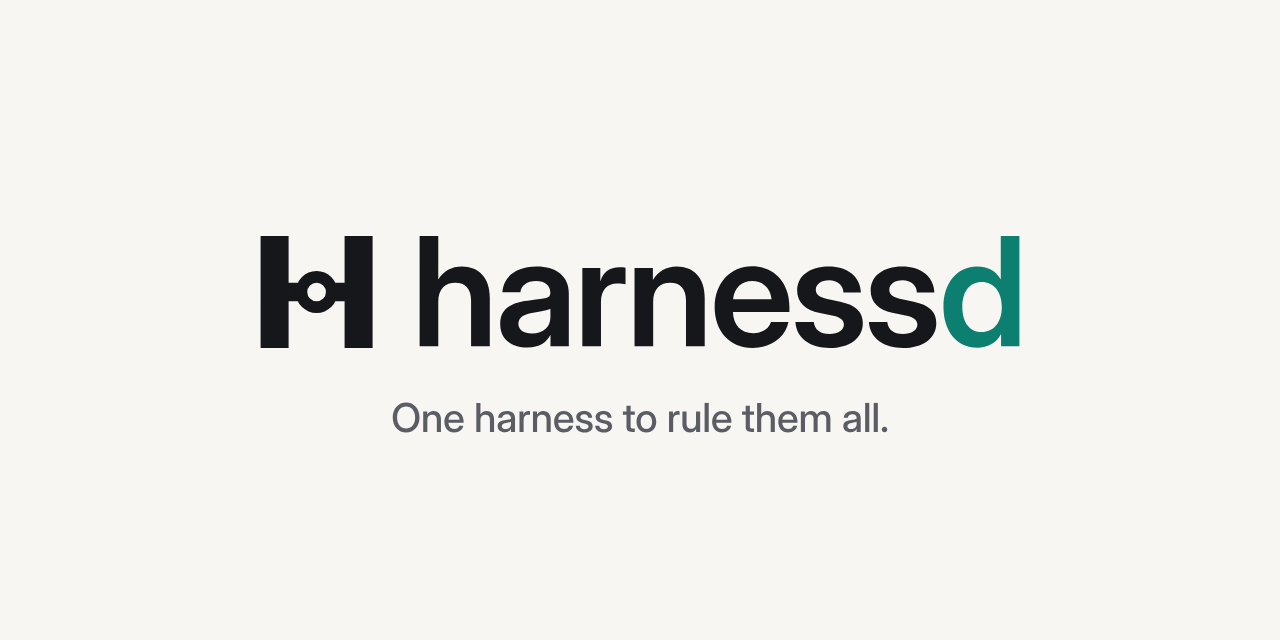
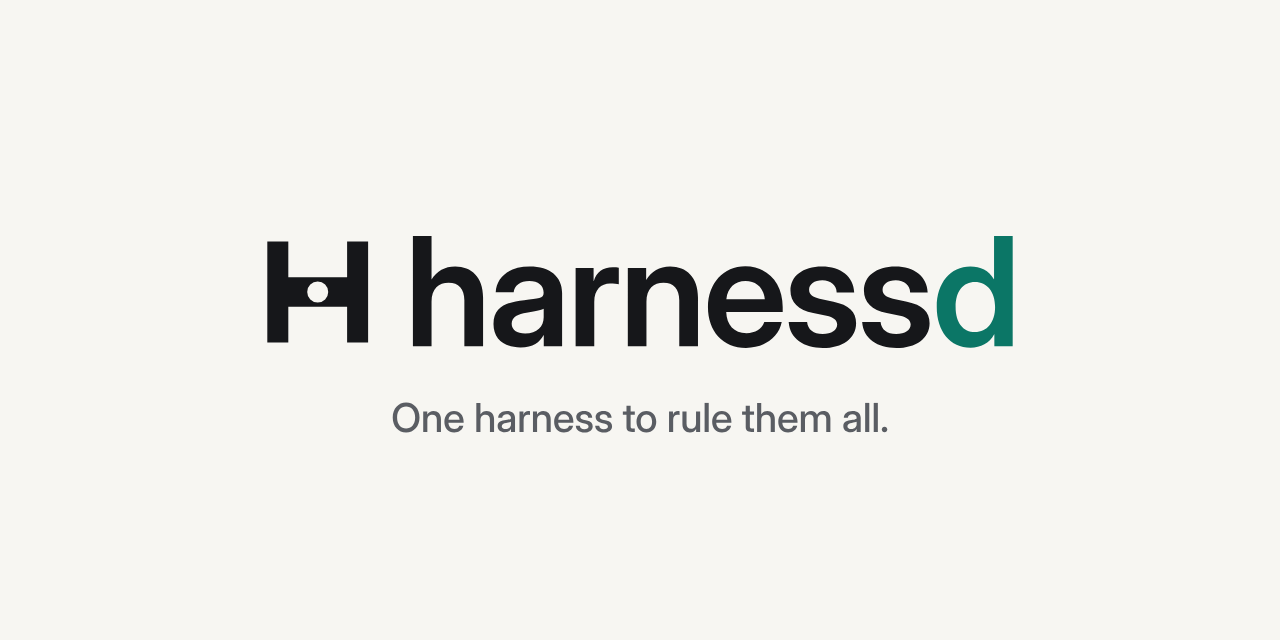
docs: MET-31 redraw the H mark with one continuous crossbar
The review found that the ring-node mark looks like a known film spacecraft.
The new mark has one continuous crossbar.
A hole through its centre leaves the ring.
The 16 and 32 px tiles use a variant with a square hole.
Each edge of that variant sits on a whole pixel.
The accent is darker: 5.1:1 on Paper.
The README install steps now work from source.
The Codex row no longer says that doctor always checks Codex.

Claude-Session: https://claude.ai/code/session_01D1BdzymCa636tbhFmd7CVr

Changed region(s): [[0.1875, 0.375, 0.8125, 0.5625]]

diff --git a/assets/brand/src/build.py b/assets/brand/src/build.py
@@ -2,11 +2,11 @@
 
 Usage, from the repo root:
     pip install fonttools uharfbuzz
-    python3 assets/brand/src/build.py [--font-dir /usr/share/fonts/opentype/inter]
+    python3 assets/brand/src/build.py --font-dir <folder with the Inter .otf files>
     node assets/brand/src/render.mjs     # PNGs, needs Playwright with Chromium
 
 Every letter is converted to an SVG path, so no file depends on an installed font.
-Font: Inter 4.0 (Inter Display SemiBold and Inter Regular), SIL Open Font License 1.1.
+Font: Inter 4.0 (Inter Display SemiBold and Inter Display Medium), SIL Open Font License 1.1.
 """
 
 import argparse
@@ -25,47 +25,19 @@ OUT = Path(__file__).resolve().parent.parent
 # Colors. See assets/brand/README.md for the contrast table.
 INK = "#16171A"
 PAPER = "#F7F6F2"
-ACCENT = "#0D7F70"  # on light backgrounds
+ACCENT = "#0B7666"  # on light backgrounds
 ACCENT_DARK = "#3CC6B0"  # on dark backgrounds
 MUTED = "#5A5D63"  # tagline on PAPER
 
 # The H mark on a 48-unit grid (a 64-unit grid with its 8-unit margin removed).
-# Two upright bars are the harnesses. The crossbar is the coordinator. The ring is
-# the one point where every harness meets.
+# Two upright bars are the harnesses. One continuous crossbar is the coordinator.
+# The hole cut through the centre of the crossbar leaves a ring: the one point where
+# every harness meets.
 MARK_SIZE = 48
-BAR_W = 12
-CROSS_H = 8
-RING_OUT = 9
-RING_IN = 4
-
-
-def ring_d(cx, cy, ro, ri):
-    def circle(r):
-        return f"M{fmt(cx - r)} {fmt(cy)}a{fmt(r)} {fmt(r)} 0 1 0 {fmt(2 * r)} 0a{fmt(r)} {fmt(r)} 0 1 0 {fmt(-2 * r)} 0z"
-
-    return circle(ro) + circle(ri)
-
-
-def mark_d(x=0.0, y=0.0, s=1.0, ring_out=RING_OUT, ring_in=RING_IN):
-    """Paths for the mark at offset (x, y) and scale s. The ring overlaps the crossbar.
-
-    At 16 px, ring_out=8 and ring_in=4 put every edge on a whole pixel.
-    """
-
-    def r(rx, ry, w, h):
-        rx, ry, w, h = x + rx * s, y + ry * s, w * s, h * s
-        return f"M{fmt(rx)} {fmt(ry)}h{fmt(w)}v{fmt(h)}h{fmt(-w)}z"
-
-    c = MARK_SIZE / 2
-    stub_l = c - ring_out + 1 - BAR_W  # the crossbar runs 1 unit into the ring
-    parts = [
-        r(0, 0, BAR_W, MARK_SIZE),
-        r(MARK_SIZE - BAR_W, 0, BAR_W, MARK_SIZE),
-        r(BAR_W, c - CROSS_H / 2, stub_l, CROSS_H),
-        r(c + ring_out - 1, c - CROSS_H / 2, stub_l, CROSS_H),
-    ]
-    rings = ring_d(x + c * s, y + c * s, ring_out * s, ring_in * s)
-    return "".join(parts), rings
+MARK = (10, 14, 5, "round")  # bar width, crossbar height, hole radius, hole shape
+# The 16 and 32 px tiles use heavier strokes, so that at 12 and 24 px every edge
+# sits on a whole pixel. The hole is a 2 px square there: a 2 px circle turns grey.
+MARK_SMALL = (12, 16, 4, "square")
 
 
 def fmt(v):
@@ -73,9 +45,27 @@ def fmt(v):
     return str(int(v)) if v == int(v) else str(v)
 
 
-def mark_paths(fill, x=0.0, y=0.0, s=1.0, **ring):
-    bars, rings = mark_d(x, y, s, **ring)
-    return f'<path fill="{fill}" d="{bars}"/><path fill="{fill}" fill-rule="evenodd" d="{rings}"/>'
+def mark_d(x=0.0, y=0.0, scale=1.0, geometry=MARK):
+    """One even-odd path for the mark, at offset (x, y) and the given scale."""
+    bar_w, cross_h, hole_r, hole_shape = geometry
+
+    c = MARK_SIZE / 2
+    cx, cy, r = x + c * scale, y + c * scale, hole_r * scale
+    if hole_shape == "square":
+        hole = f"M{fmt(cx - r)} {fmt(cy - r)}h{fmt(2 * r)}v{fmt(2 * r)}h{fmt(-2 * r)}z"
+    else:
+        hole = f"M{fmt(cx - r)} {fmt(cy)}a{fmt(r)} {fmt(r)} 0 1 0 {fmt(2 * r)} 0a{fmt(r)} {fmt(r)} 0 1 0 {fmt(-2 * r)} 0z"
+    # One outline for the bars and the crossbar, so the hole is the only even-odd cut.
+    w, b, h = MARK_SIZE, bar_w, cross_h
+    top, bot = c - h / 2, c + h / 2
+    pts = [(0, 0), (b, 0), (b, top), (w - b, top), (w - b, 0), (w, 0), (w, w), (w - b, w),
+           (w - b, bot), (b, bot), (b, w), (0, w)]
+    outline = "M" + "L".join(f"{fmt(x + px * scale)} {fmt(y + py * scale)}" for px, py in pts) + "z"
+    return outline + hole
+
+
+def mark_paths(fill, x=0.0, y=0.0, scale=1.0, geometry=MARK):
+    return f'<path fill="{fill}" fill-rule="evenodd" d="{mark_d(x, y, scale, geometry)}"/>'
 
 
 class Text:
@@ -139,9 +129,18 @@ def contrast(a, b):
     return round((la + 0.05) / (lb + 0.05), 2)
 
 
+def tile(size, radius, mark_w, geometry=MARK):
+    """The mark in Paper, centred on an Ink tile."""
+    offset = (size - mark_w) / 2
+    corner = f' rx="{radius}"' if radius else ""
+    return f'<rect width="{size}" height="{size}"{corner} fill="{INK}"/>' + mark_paths(
+        PAPER, offset, offset, mark_w / MARK_SIZE, geometry
+    )
+
+
 def main():
     ap = argparse.ArgumentParser()
-    ap.add_argument("--font-dir", default="/usr/share/fonts/opentype/inter")
+    ap.add_argument("--font-dir", required=True, help="folder with the Inter 4.0 .otf files")
     font_dir = ap.parse_args().font_dir
     wm_font = os.path.join(font_dir, "InterDisplay-SemiBold.otf")
     tag_font = os.path.join(font_dir, "InterDisplay-Medium.otf")
@@ -150,83 +149,66 @@ def main():
     # and give the final "d" a hair more room so the accent reads as its own letter.
     word = Text(wm_font, "harnessd", track=-40, adjust={3: 6, 7: 14})
     xmin, ymin, xmax, ymax = word.bounds
-    pad = 0
     wm_h = 64.0  # the wordmark's height, ascender to baseline, in output units
-    s = wm_h / (ymax - ymin)
-    wm_w = (xmax - xmin) * s
+    wm_scale = wm_h / (ymax - ymin)
+    wm_w = (xmax - xmin) * wm_scale
+    light, dark = (INK, ACCENT), (PAPER, ACCENT_DARK)
     files = {}
 
-    def wordmark(fill, accent):
-        return glyph_group(word, fill, accent, -xmin * s + pad, -ymin * s, round(s, 6))
+    def wordmark(theme, dx=0.0):
+        return glyph_group(word, *theme, dx - xmin * wm_scale, -ymin * wm_scale, round(wm_scale, 6))
 
-    files["wordmark.svg"] = svg(wm_w, wm_h, wordmark(INK, ACCENT), "harnessd")
-    files["wordmark-dark.svg"] = svg(wm_w, wm_h, wordmark(PAPER, ACCENT_DARK), "harnessd")
+    files["wordmark.svg"] = svg(wm_w, wm_h, wordmark(light), "harnessd")
+    files["wordmark-dark.svg"] = svg(wm_w, wm_h, wordmark(dark), "harnessd")
 
     # Mark alone, tight to its 48-unit grid.
     files["mark.svg"] = svg(MARK_SIZE, MARK_SIZE, mark_paths(INK), "harnessd")
     files["mark-dark.svg"] = svg(MARK_SIZE, MARK_SIZE, mark_paths(PAPER), "harnessd")
 
-    # Lockup: the mark is as tall as the wordmark, and the gap is half the mark.
-    m = wm_h / MARK_SIZE
-    gap = wm_h * 0.42
-    lw = wm_h + gap + wm_w
+    # Lockup: the mark is 0.9 of the wordmark's height, centred on it, so its heavier
+    # strokes do not outweigh the letters. The gap is 0.4 of the wordmark's height.
+    mark_h = wm_h * 0.9
+    gap = wm_h * 0.4
+    lockup_w = mark_h + gap + wm_w
 
-    def lockup(fill, accent):
-        return mark_paths(fill, 0, 0, m) + glyph_group(
-            word, fill, accent, wm_h + gap - xmin * s, -ymin * s, round(s, 6)
-        )
+    def lockup(theme):
+        mark = mark_paths(theme[0], 0, (wm_h - mark_h) / 2, mark_h / MARK_SIZE)
+        return mark + wordmark(theme, mark_h + gap)
 
-    files["lockup.svg"] = svg(lw, wm_h, lockup(INK, ACCENT), "harnessd")
-    files["lockup-dark.svg"] = svg(lw, wm_h, lockup(PAPER, ACCENT_DARK), "harnessd")
+    files["lockup.svg"] = svg(lockup_w, wm_h, lockup(light), "harnessd")
+    files["lockup-dark.svg"] = svg(lockup_w, wm_h, lockup(dark), "harnessd")
 
-    # App icon: a 512 tile, radius 112 (about 22 percent), mark 256 wide.
-    t = 512
-    ms = 256 / MARK_SIZE
-    o = (t - 256) / 2
-    files["app-icon.svg"] = svg(
-        t,
-        t,
-        f'<rect width="{t}" height="{t}" rx="112" fill="{INK}"/>' + mark_paths(PAPER, o, o, ms),
-        "harnessd",
-    )
-    # Square tile with no radius, for the 180 px touch icon (the OS rounds it).
-    files["src/touch-icon.svg"] = svg(
-        t, t, f'<rect width="{t}" height="{t}" fill="{INK}"/>' + mark_paths(PAPER, o, o, ms), "harnessd"
-    )
-    # Small tile for the 16 and 32 px PNGs: the mark fills 12 of 16 pixels, snapped to whole pixels.
-    files["src/favicon-tile.svg"] = svg(
-        16,
-        16,
-        f'<rect width="16" height="16" rx="3" fill="{INK}"/>' + mark_paths(PAPER, 2, 2, 12 / 48, ring_out=8, ring_in=4),
-        "harnessd",
-    )
+    # App icon: a 512 tile, radius 112 (about 22 percent), mark 240 wide.
+    files["app-icon.svg"] = svg(512, 512, tile(512, 112, 240), "harnessd")
+    # Square tile for the 180 px touch icon: the OS rounds the corners itself.
+    files["src/touch-icon.svg"] = svg(512, 512, tile(512, 0, 240), "harnessd")
+    # Small tile for the 16 and 32 px PNGs: the small mark fills 12 of 16 pixels.
+    files["src/favicon-tile.svg"] = svg(16, 16, tile(16, 3, 12, MARK_SMALL), "harnessd")
 
     # favicon.svg: the bare mark, ink on light tabs and paper on dark ones.
-    bars, rings = mark_d(8, 8, 1)
     files["favicon.svg"] = (
         '<svg xmlns="http://www.w3.org/2000/svg" viewBox="0 0 64 64" role="img" aria-label="harnessd">'
         "<title>harnessd</title>"
         f"<style>path{{fill:{INK}}}@media (prefers-color-scheme:dark){{path{{fill:{PAPER}}}}}</style>"
-        f'<path d="{bars}"/><path fill-rule="evenodd" d="{rings}"/></svg>\n'
+        f'<path fill-rule="evenodd" d="{mark_d(8, 8)}"/></svg>\n'
     )
 
     # Social preview, 1280x640: the lockup and the tagline, all as paths.
-    W, H = 1280, 640
-    ls = 1.75  # lockup scale: 112 px tall
-    lx = (W - lw * ls) / 2
-    ly = 236
+    width, height = 1280, 640
+    lockup_scale = 1.75  # 112 px tall
     tag = Text(tag_font, "One harness to rule them all.", track=-10)
-    txmin, tymin, txmax, tymax = tag.bounds
-    ts = 40 / tag.upm * 1.0  # 40 px type
-    tw = (txmax - txmin) * ts
+    txmin, _, txmax, _ = tag.bounds
+    tag_scale = 40 / tag.upm  # 40 px type
+    tag_w = (txmax - txmin) * tag_scale
     tag_body = "".join(f'<path d="{d}"/>' for d in tag.glyphs)
     body = (
-        f'<rect width="{W}" height="{H}" fill="{PAPER}"/>'
-        f'<g transform="translate({fmt(lx)} {ly}) scale({ls})">{lockup(INK, ACCENT)}</g>'
-        f'<g fill="{MUTED}" transform="translate({fmt((W - tw) / 2 - txmin * ts)} 432) scale({ts})">'
-        f"{tag_body}</g>"
+        f'<rect width="{width}" height="{height}" fill="{PAPER}"/>'
+        f'<g transform="translate({fmt((width - lockup_w * lockup_scale) / 2)} 236) '
+        f'scale({lockup_scale})">{lockup(light)}</g>'
+        f'<g fill="{MUTED}" transform="translate({fmt((width - tag_w) / 2 - txmin * tag_scale)} 432) '
+        f'scale({tag_scale})">{tag_body}</g>'
     )
-    files["src/social-preview.svg"] = svg(W, H, body, "harnessd: One harness to rule them all.")
+    files["src/social-preview.svg"] = svg(width, height, body, "harnessd: One harness to rule them all.")
 
     for name, text in files.items():
         (OUT / name).write_text(text)
@@ -235,6 +217,7 @@ def main():
         "ink on paper": (INK, PAPER),
         "ink on white": (INK, "#FFFFFF"),
         "paper on ink": (PAPER, INK),
+        "accent on #0D1117 (do not use)": (ACCENT, "#0D1117"),
         "accent on paper": (ACCENT, PAPER),
         "accent on white": (ACCENT, "#FFFFFF"),
         "accent-dark on ink": (ACCENT_DARK, INK),

diff --git a/README.md b/README.md
@@ -21,27 +21,24 @@
 <p align="center">
   <picture>
     <source media="(prefers-color-scheme: dark)" srcset="assets/readme/board-dark.png">
-    <img src="assets/readme/board-light.png" alt="The harnessd board: issues in Needs you, Backlog, Ready, In Progress, In Review and Done, with the pause control at the top right." width="880">
+    <img src="assets/readme/board-light.png" alt="The harnessd board with demo data: issues in Needs you, Backlog, Ready, In Progress, In Review and Done, with the pause control at the top right." width="880">
   </picture>
+  <br><sub>The board, with demo data.</sub>
 </p>
 
 > [!NOTE]
 > harnessd is pre-release (v0.1 beta). It runs on macOS first. `@harnessd/cli` is not on npm yet, so for now [build it from source](#install).
 
 ## What you get
-- **A team, not a chatbot.** A coordinator plus Backend, Frontend and QA agents that work through your Linear board without you.
+- **A team, not a chatbot.** A coordinator plus Backend, Frontend and QA agents work through your Linear board without you.
 - **Grilled issues.** Before any code, the coordinator checks each issue against your spec, decisions and glossary, and answers its own questions.
-- **Clean isolation.** Every task runs in its own git worktree and branch. Agents never share a checkout.
-- **Real QA.** A QA agent checks each PR against the issue's "Done when" list, and your test command runs at the PR head.
-- **A merge gate.** PRs merge only when QA approves, CI is green and no protected path is touched.
-- **A kill switch.** `harnessd pause` stops every agent within 10 seconds. Work is kept, and `harnessd resume` picks it up.
+- **Clean isolation.** Every task runs in its own git worktree and branch.
+- **Real QA, then a gate.** QA checks each PR against the issue's "Done when" list. Only approved, green PRs merge. See [Safety](#safety).
 - **One config.** `~/.harnessd` and `<repo>/.harnessd` generate each harness's native files with `harnessd sync`.
-- **A live board.** A local web UI shows issues, agents, budgets and logs, and gives you the pause button.
-- **Setup in a few clicks.** Settings installs and signs in each harness CLI, checks every connection and edits the team.
-- **Slack, quietly.** One line per merge or block, and one summary a day.
+- **A live board.** A local web UI shows issues, agents, budgets and logs, holds the pause button, and sets up harnesses, connections and the team in a few clicks.
 - **Your subscriptions.** harnessd drives each harness through its CLI. You keep your own plan and sign-in. No vendor SDK and no model API key.
-- **Shared memory.** Markdown vaults that Claude Code and Codex read through a built-in MCP server.
-- **A skill pack.** `harnessd init` installs proven skills for TDD, code review, design and more.
+- **Memory and skills.** Markdown vaults reach Claude Code and Codex over a built-in MCP server. `init` installs a skill pack for TDD, code review, design and more.
+- **Slack, quietly.** One line per merge or block, and one summary a day.
 
 ## How it works
 One Ready issue, end to end:
@@ -78,21 +75,21 @@ Settings, rules, skills, agents and MCP servers merge in order: defaults, global
 | Harness | v0.1 | What works |
 |---|---|---|
 | Claude Code | **Shipped** | Runs every agent by default. `init` installs it, `doctor` checks it, `sync` writes its files. |
-| Codex | **Detected** | `init` installs it, `doctor` checks the CLI and sign-in, `sync` writes its files. Running agents on it is planned. |
+| Codex | **Detected** | `init` installs it. Settings shows its CLI and sign-in, and `doctor` checks it once an agent uses it. `sync` writes its files. Running agents on it is planned. |
 | Antigravity, OpenCode, Cursor, Grok | Planned | Accepted as names in config. No adapter yet. |
 
 ## Install
-You need macOS, Node 24 or newer, pnpm 10, the `gh` CLI signed in to GitHub, and a Linear API key. On Linux everything but the background service works.
+You need macOS (or Linux, without the background service), Node 24 or newer, the `gh` CLI signed in to GitHub, and a Linear API key.
 
-Until `@harnessd/cli` is on npm, build from source:
+Until `@harnessd/cli` is on npm, build it from source with pnpm 10, and put a `harnessd` command on your PATH:
 
 ```bash
 git clone https://github.com/ashwinYardi/harnessd.git && cd harnessd
 corepack enable && pnpm install && pnpm build
-alias harnessd="node $PWD/packages/cli/dist/bin.js"
+mkdir -p ~/.local/bin
+printf '#!/bin/sh\nexec node "%s/packages/cli/dist/bin.js" "$@"\n' "$PWD" > ~/.local/bin/harnessd
+chmod +x ~/.local/bin/harnessd   # ~/.local/bin must be on your PATH
 ```
-
-From source, run `harnessd init --no-service` and keep `harnessd run` in a terminal. The background service needs the published package.
 
 Once the package is on npm, one line will do it. It installs Node 24 if needed, then runs `harnessd init`:
 

diff --git a/assets/brand/README.md b/assets/brand/README.md
@@ -6,9 +6,11 @@
 </picture>
 
 ## The mark
-An H. The two upright bars are the harnesses. The crossbar is the coordinator that joins them. The ring at the centre is the one point where every harness meets.
+An H. The two upright bars are the harnesses. The one crossbar is the coordinator that joins them. A hole cut through the centre of the crossbar leaves a ring: the one point where every harness meets.
 
-The mark is flat and one color. Every shape sits on a 48-unit grid: bars 12 wide, crossbar 8 high, ring 18 across with an 8-unit hole.
+The mark is flat and one color, on a 48-unit grid: bars 10 wide, crossbar 14 high, hole 10 across.
+
+The 16 and 32 px tiles use a small variant: bars 12, crossbar 16 and a square 8-unit hole. At those sizes every edge sits on a whole pixel, and the hole stays open.
 
 ## Files
 All logos are SVG paths. No file needs an installed font.
@@ -20,7 +22,7 @@ All logos are SVG paths. No file needs an installed font.
 | `lockup.svg`, `lockup-dark.svg` | The mark and the wordmark side by side. The default logo. |
 | `app-icon.svg` | The mark on a rounded ink tile, 512 px, radius 112. |
 | `favicon.svg` | The bare mark. Ink, or paper when the browser is dark. |
-| `favicon-16.png`, `favicon-32.png` | A small ink tile. Its ring is snapped to whole pixels. |
+| `favicon-16.png`, `favicon-32.png` | A small Ink tile with the small variant. |
 | `apple-touch-icon.png` | 180 px, square tile. The OS rounds the corners. |
 | `favicon-512.png` | The app icon as a PNG. |
 | `social-preview.png` | 1280 × 640, the lockup and the tagline. |
@@ -33,11 +35,11 @@ All logos are SVG paths. No file needs an installed font.
 |---|---|---|
 | Ink | `#16171A` | The logo on light backgrounds. The app-icon tile. |
 | Paper | `#F7F6F2` | The logo on dark backgrounds. The social preview background. |
-| Junction | `#0D7F70` | The final "d" of the wordmark, on light backgrounds. |
+| Junction | `#0B7666` | The final "d" of the wordmark, on light backgrounds. |
 | Junction light | `#3CC6B0` | The final "d", on dark backgrounds. |
 | Slate | `#5A5D63` | The tagline on Paper. |
 
-Junction is the only accent. Use it on the "d" and nowhere else in the logo. Do not use it for UI states.
+Junction is the only accent. Use it on the "d" and nowhere else in the logo. Do not use it for UI states. On a dark background use Junction light: Junction there is only 3.4:1.
 
 Contrast, WCAG 2.1. Every pair passes AA for normal text (4.5:1).
 
@@ -46,8 +48,8 @@ Contrast, WCAG 2.1. Every pair passes AA for normal text (4.5:1).
 | Ink on Paper | 16.6:1 |
 | Ink on white | 17.9:1 |
 | Paper on `#0D1117` (a common dark page) | 17.5:1 |
-| Junction on Paper | 4.5:1 |
-| Junction on white | 4.9:1 |
+| Junction on Paper | 5.1:1 |
+| Junction on white | 5.5:1 |
 | Junction light on Ink | 8.5:1 |
 | Junction light on `#0D1117` | 8.9:1 |
 | Slate on Paper | 6.1:1 |
@@ -58,8 +60,8 @@ Keep a space around the logo equal to half the mark's height. For the lockup, th
 ## Minimum size
 | Item | Smallest |
 |---|---|
-| Mark | 16 px. Below 24 px, use `favicon-16.png` or `favicon-32.png`. |
-| Lockup | 20 px high |
+| Mark | 24 px. Below that, use the small variant: `favicon-16.png` or `favicon-32.png`. |
+| Lockup | 28 px high (its mark is then 25 px) |
 | Wordmark | 14 px high |
 
 ## Do not
@@ -78,4 +80,4 @@ pip install fonttools uharfbuzz
 python3 assets/brand/src/build.py --font-dir <folder with the Inter .otf files>
 node assets/brand/src/render.mjs    # needs Playwright with Chromium
 ```
-`build.py` prints the contrast table above.
+`build.py` prints the contrast table above. The scripts make assets only. They are not part of the build, and the packages do not depend on them.

diff --git a/docs/decisions/D-027-brand.md b/docs/decisions/D-027-brand.md
@@ -1,11 +1,12 @@
 # D-027 Brand: the H mark, the wordmark and one accent
 Status: accepted 2026-11-20. Issue: MET-31.
 
-- **The mark** is an H. Two upright bars are the harnesses, one crossbar is the coordinator, and a ring at the centre is the point where every harness meets. It is flat, one color, and drawn on a 48-unit grid.
+- **The mark** is an H. Two upright bars are the harnesses, and one continuous crossbar is the coordinator. A hole cut through the centre of the crossbar leaves a ring, the point where every harness meets. It is flat, one color, and drawn on a 48-unit grid. A ring on short struts was rejected, because its outline looks like a known film spacecraft.
 - **The wordmark** is "harnessd" in lowercase, in Inter Display SemiBold (SIL OFL 1.1), converted to SVG paths. No brand file needs an installed font.
-- **Colors:** Ink `#16171A`, Paper `#F7F6F2`, and one accent, Junction `#0D7F70` (`#3CC6B0` on dark). The accent marks only the final "d" of the wordmark. It is never a UI state color, so it cannot be confused with Needs you, warning or success (DESIGN.md).
+- **Colors:** Ink `#16171A`, Paper `#F7F6F2`, and one accent, Junction `#0B7666` (`#3CC6B0` on dark). The accent marks only the final "d" of the wordmark. It is never a UI state color, so it cannot be confused with Needs you, warning or success (DESIGN.md).
 - **Source of truth:** `assets/brand/`, made by `assets/brand/src/build.py`. Rules for use: `assets/brand/README.md`.
 - **No borrowed brand.** No other product's name, logo, screenshot or copy is used as part of the harnessd brand. The README names harness CLIs and vendored skills only as facts: what harnessd runs on and what it credits.
+- **Asset tools:** `build.py` (Python, fonttools and uharfbuzz) and `render.mjs` (Playwright) make the assets only. They are not part of the build or of any package, so D-002 and D-003 still hold.
 - MET-32 puts the mark in the app. Until then the UI keeps its text title.
 
 Why: the owner wants an original brand that reads at 16 px and fits the quiet UI.
